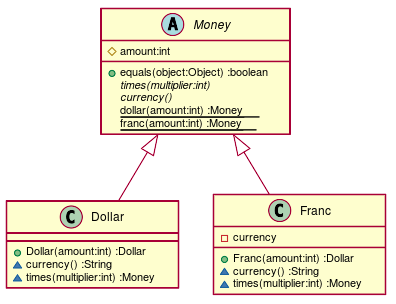
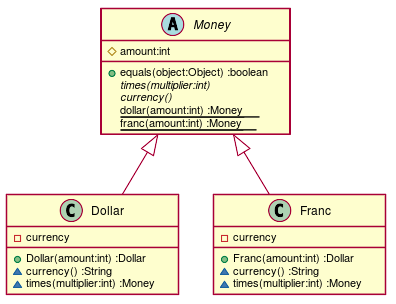
第９章 歩幅の調整 Step7

Changed region(s): [[0.0, 0.6217, 0.4545, 0.977]]

diff --git a/src/main/java/tdd/money/Dollar.java b/src/main/java/tdd/money/Dollar.java
@@ -1,11 +1,13 @@
 package tdd.money;
 
 class Dollar extends Money {
+    private String currency;
     Dollar(int amount){
         this.amount = amount;
+        currency = "USD";
     }
     String currency() {
-        return "USD";
+        return currency;
     }
     Money times(int multiplier) {
         return new Dollar(amount * multiplier);

diff --git a/docs/TDD.md b/docs/TDD.md
@@ -59,7 +59,7 @@
 ### クラス図
   
 
-![](./assets/0285dfa24ee25b18e00bb369b57da6820.png?0.12641737842693068)  
+![](./assets/0285dfa24ee25b18e00bb369b57da6820.png?0.12225651595269071)    
 ### シーケンス図
   
   
@@ -107,11 +107,13 @@ public class MoneyTest {
 package tdd.money;
   
 class Dollar extends Money {
+    private String currency;
     Dollar(int amount){
         this.amount = amount;
+        currency = "USD";
     }
     String currency() {
-        return "USD";
+        return currency;
     }
     Money times(int multiplier) {
         return new Dollar(amount * multiplier);

diff --git a/docs/src/TDD.md b/docs/src/TDD.md
@@ -61,6 +61,7 @@ markdown:
 ### クラス図
 ```puml
 class Dollar {
+  -currency
   +Dollar(amount:int) :Dollar
   ~currency() :String  
   ~times(multiplier:int) :Money
